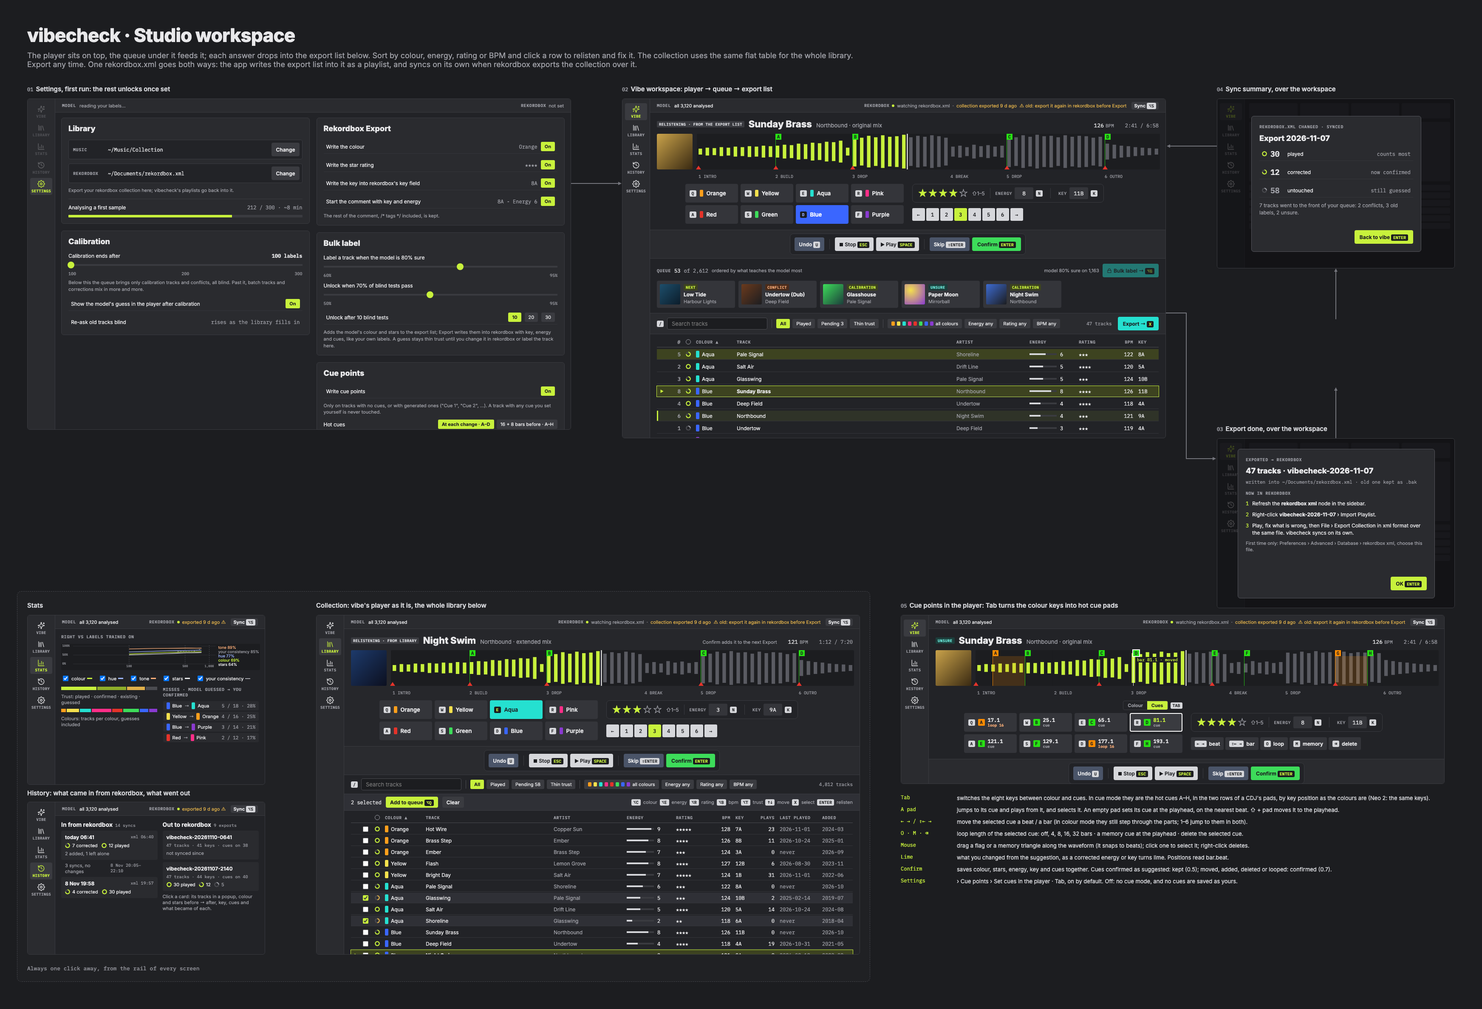
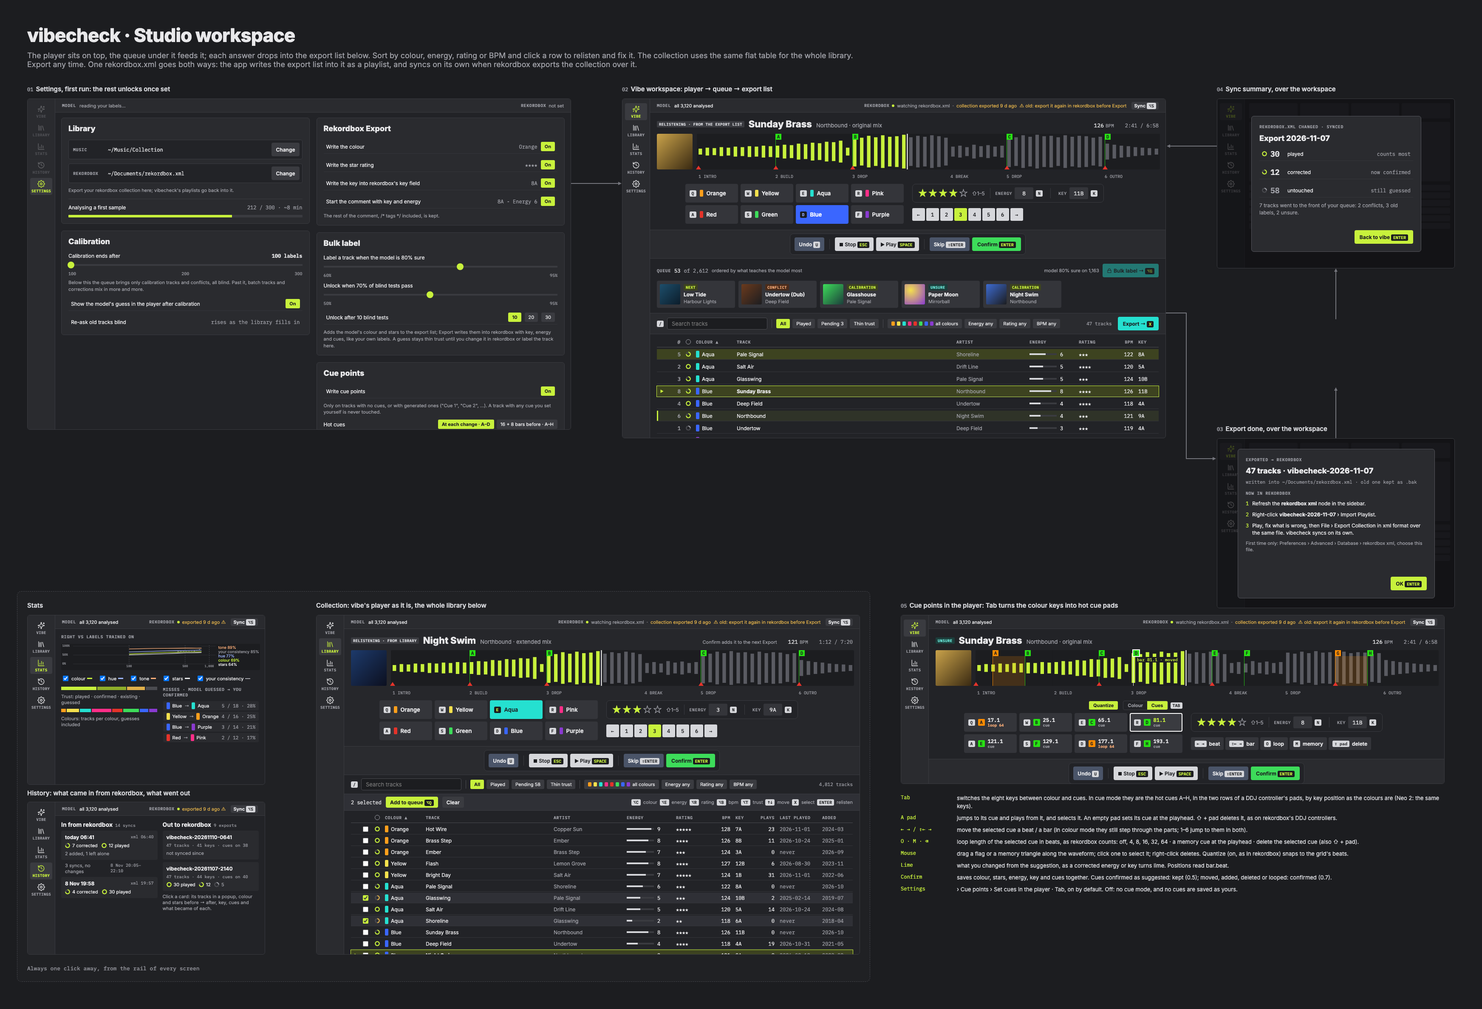
cues: align with rekordbox (shift+pad deletes, loops in beats, Quantize switch, DDJ pads in docs)

Changed region(s): [[0.5938, 0.7786, 0.9062, 0.9032], [0.7188, 0.6852, 0.75, 0.7163]]

diff --git a/docs/ui/workspace.html b/docs/ui/workspace.html
@@ -118,15 +118,15 @@ a{color:#c8f13c}a:hover{color:#e0ff7a}
 <div class="mono" style="position: relative; height: 14px; font-size: 10px; color: #a0a1a8"><span style="position: absolute; left: 4px">1 INTRO</span><span style="position: absolute; left: 185px">2 BUILD</span><span style="position: absolute; left: 366px">3 DROP</span><span style="position: absolute; left: 597px">4 BREAK</span><span style="position: absolute; left: 729px">5 DROP</span><span style="position: absolute; left: 960px">6 OUTRO</span></div>
 </div></div>
 <div style="display: grid; grid-template-columns: 1fr 1fr; gap: 20px; align-items: start">
-<div style="display: flex; flex-direction: column; gap: 6px; justify-self: end"><div style="display: flex; align-items: center; gap: 6px; justify-content: flex-end; height: 24px"><span style="display: inline-flex; border-radius: 4px; overflow: hidden; border: 1px solid #3a3b40"><span style="padding: 3px 10px; font-size: 11px; font-weight: 600; color: #a0a1a8">Colour</span><span style="padding: 3px 10px; font-size: 11px; font-weight: 700; color: #1c1d20; background: #c8f13c">Cues</span></span><span class="kbd">TAB</span></div><div style="display: grid; grid-template-columns: repeat(4, 124px); gap: 6px"><div class="key" style="gap: 7px; "><span class="kbd">Q</span><span style="width: 16px; height: 16px; background: #ff8c00; color: #1c1d20; font: 700 11px 'IBM Plex Mono', monospace; line-height: 16px; text-align: center; border-radius: 2px">A</span><span style="display: flex; flex-direction: column; line-height: 1.15"><span class="mono" style="font-size: 12px; color: #e8e8ea">17.1</span><span class="mono" style="font-size: 9px; color: #ffb07a">loop 16</span></span></div><div class="key" style="gap: 7px; "><span class="kbd">W</span><span style="width: 16px; height: 16px; background: #28e214; color: #1c1d20; font: 700 11px 'IBM Plex Mono', monospace; line-height: 16px; text-align: center; border-radius: 2px">B</span><span style="display: flex; flex-direction: column; line-height: 1.15"><span class="mono" style="font-size: 12px; color: #e8e8ea">25.1</span><span class="mono" style="font-size: 9px; color: #a0a1a8">cue</span></span></div><div class="key" style="gap: 7px; "><span class="kbd">E</span><span style="width: 16px; height: 16px; background: #28e214; color: #1c1d20; font: 700 11px 'IBM Plex Mono', monospace; line-height: 16px; text-align: center; border-radius: 2px">C</span><span style="display: flex; flex-direction: column; line-height: 1.15"><span class="mono" style="font-size: 12px; color: #e8e8ea">65.1</span><span class="mono" style="font-size: 9px; color: #a0a1a8">cue</span></span></div><div class="key" style="gap: 7px; background: #3a3b40; box-shadow: inset 0 0 0 2px #ffffff;"><span class="kbd">R</span><span style="width: 16px; height: 16px; background: #28e214; color: #1c1d20; font: 700 11px 'IBM Plex Mono', monospace; line-height: 16px; text-align: center; border-radius: 2px">D</span><span style="display: flex; flex-direction: column; line-height: 1.15"><span class="mono" style="font-size: 12px; color: #c8f13c">81.1</span><span class="mono" style="font-size: 9px; color: #a0a1a8">cue</span></span></div><div class="key" style="gap: 7px; "><span class="kbd">A</span><span style="width: 16px; height: 16px; background: #28e214; color: #1c1d20; font: 700 11px 'IBM Plex Mono', monospace; line-height: 16px; text-align: center; border-radius: 2px">E</span><span style="display: flex; flex-direction: column; line-height: 1.15"><span class="mono" style="font-size: 12px; color: #e8e8ea">121.1</span><span class="mono" style="font-size: 9px; color: #a0a1a8">cue</span></span></div><div class="key" style="gap: 7px; "><span class="kbd">S</span><span style="width: 16px; height: 16px; background: #28e214; color: #1c1d20; font: 700 11px 'IBM Plex Mono', monospace; line-height: 16px; text-align: center; border-radius: 2px">F</span><span style="display: flex; flex-direction: column; line-height: 1.15"><span class="mono" style="font-size: 12px; color: #e8e8ea">129.1</span><span class="mono" style="font-size: 9px; color: #a0a1a8">cue</span></span></div><div class="key" style="gap: 7px; "><span class="kbd">D</span><span style="width: 16px; height: 16px; background: #ff8c00; color: #1c1d20; font: 700 11px 'IBM Plex Mono', monospace; line-height: 16px; text-align: center; border-radius: 2px">G</span><span style="display: flex; flex-direction: column; line-height: 1.15"><span class="mono" style="font-size: 12px; color: #e8e8ea">177.1</span><span class="mono" style="font-size: 9px; color: #ffb07a">loop 16</span></span></div><div class="key" style="gap: 7px; "><span class="kbd">F</span><span style="width: 16px; height: 16px; background: #28e214; color: #1c1d20; font: 700 11px 'IBM Plex Mono', monospace; line-height: 16px; text-align: center; border-radius: 2px">H</span><span style="display: flex; flex-direction: column; line-height: 1.15"><span class="mono" style="font-size: 12px; color: #e8e8ea">193.1</span><span class="mono" style="font-size: 9px; color: #a0a1a8">cue</span></span></div></div></div>
-<div style="display: flex; flex-direction: column; gap: 6px"><div style="height: 24px"></div><div style="height: 44px; display: flex; align-items: center"><div style="display: inline-flex; align-items: center; box-sizing: border-box; height: 44px; padding: 0 14px; background: #222327; border: 1px solid #3a3b40; border-radius: 8px"><div style="display: flex; align-items: center; gap: 4px"><span style="font-size: 20px; line-height: 1; color: #c8f13c">★</span><span style="font-size: 20px; line-height: 1; color: #c8f13c">★</span><span style="font-size: 20px; line-height: 1; color: #c8f13c">★</span><span style="font-size: 20px; line-height: 1; color: #c8f13c">★</span><span style="font-size: 20px; line-height: 1; color: #a0a1a8">☆</span><span style="font-size: 12px; color: #a0a1a8; margin-left: 6px">⇧1–5</span></div><span style="width: 1px; height: 24px; background: #3a3b40; margin: 0 12px"></span><div style="display: flex; align-items: center; gap: 6px"><span style="font: 500 10px 'IBM Plex Mono', monospace; letter-spacing: .06em; color: #a0a1a8">ENERGY</span><span class="mono" style="display: inline-flex; align-items: center; justify-content: center; min-width: 44px; height: 28px; border-radius: 3px; background: #34353a; font-size: 13px">8</span><span class="kbd">N</span><span style="width: 1px; height: 24px; background: #3a3b40; margin: 0 12px"></span><span style="font: 500 10px 'IBM Plex Mono', monospace; letter-spacing: .06em; color: #a0a1a8">KEY</span><span class="mono" style="display: inline-flex; align-items: center; justify-content: center; min-width: 44px; height: 28px; border-radius: 3px; background: #34353a; font-size: 13px">11B</span><span class="kbd">K</span></div></div></div><div style="height: 44px; display: flex; align-items: center; gap: 4px"><span style="display: inline-flex; align-items: center; gap: 6px; height: 30px; padding: 0 9px; border-radius: 3px; background: #34353a; font-size: 12px; font-weight: 600"><span class="kbd">← →</span>beat</span><span style="display: inline-flex; align-items: center; gap: 6px; height: 30px; padding: 0 9px; border-radius: 3px; background: #34353a; font-size: 12px; font-weight: 600"><span class="kbd">⇧← →</span>bar</span><span style="display: inline-flex; align-items: center; gap: 6px; height: 30px; padding: 0 9px; border-radius: 3px; background: #34353a; font-size: 12px; font-weight: 600"><span class="kbd">O</span>loop</span><span style="display: inline-flex; align-items: center; gap: 6px; height: 30px; padding: 0 9px; border-radius: 3px; background: #34353a; font-size: 12px; font-weight: 600"><span class="kbd">M</span>memory</span><span style="display: inline-flex; align-items: center; gap: 6px; height: 30px; padding: 0 9px; border-radius: 3px; background: #34353a; font-size: 12px; font-weight: 600"><span class="kbd">⌫</span>delete</span></div></div>
+<div style="display: flex; flex-direction: column; gap: 6px; justify-self: end"><div style="display: flex; align-items: center; gap: 6px; justify-content: flex-end; height: 24px"><span style="padding: 3px 10px; font-size: 11px; font-weight: 700; color: #1c1d20; background: #c8f13c; border-radius: 3px; margin-right: 6px">Quantize</span><span style="display: inline-flex; border-radius: 4px; overflow: hidden; border: 1px solid #3a3b40"><span style="padding: 3px 10px; font-size: 11px; font-weight: 600; color: #a0a1a8">Colour</span><span style="padding: 3px 10px; font-size: 11px; font-weight: 700; color: #1c1d20; background: #c8f13c">Cues</span></span><span class="kbd">TAB</span></div><div style="display: grid; grid-template-columns: repeat(4, 124px); gap: 6px"><div class="key" style="gap: 7px; "><span class="kbd">Q</span><span style="width: 16px; height: 16px; background: #ff8c00; color: #1c1d20; font: 700 11px 'IBM Plex Mono', monospace; line-height: 16px; text-align: center; border-radius: 2px">A</span><span style="display: flex; flex-direction: column; line-height: 1.15"><span class="mono" style="font-size: 12px; color: #e8e8ea">17.1</span><span class="mono" style="font-size: 9px; color: #ffb07a">loop 64</span></span></div><div class="key" style="gap: 7px; "><span class="kbd">W</span><span style="width: 16px; height: 16px; background: #28e214; color: #1c1d20; font: 700 11px 'IBM Plex Mono', monospace; line-height: 16px; text-align: center; border-radius: 2px">B</span><span style="display: flex; flex-direction: column; line-height: 1.15"><span class="mono" style="font-size: 12px; color: #e8e8ea">25.1</span><span class="mono" style="font-size: 9px; color: #a0a1a8">cue</span></span></div><div class="key" style="gap: 7px; "><span class="kbd">E</span><span style="width: 16px; height: 16px; background: #28e214; color: #1c1d20; font: 700 11px 'IBM Plex Mono', monospace; line-height: 16px; text-align: center; border-radius: 2px">C</span><span style="display: flex; flex-direction: column; line-height: 1.15"><span class="mono" style="font-size: 12px; color: #e8e8ea">65.1</span><span class="mono" style="font-size: 9px; color: #a0a1a8">cue</span></span></div><div class="key" style="gap: 7px; background: #3a3b40; box-shadow: inset 0 0 0 2px #ffffff;"><span class="kbd">R</span><span style="width: 16px; height: 16px; background: #28e214; color: #1c1d20; font: 700 11px 'IBM Plex Mono', monospace; line-height: 16px; text-align: center; border-radius: 2px">D</span><span style="display: flex; flex-direction: column; line-height: 1.15"><span class="mono" style="font-size: 12px; color: #c8f13c">81.1</span><span class="mono" style="font-size: 9px; color: #a0a1a8">cue</span></span></div><div class="key" style="gap: 7px; "><span class="kbd">A</span><span style="width: 16px; height: 16px; background: #28e214; color: #1c1d20; font: 700 11px 'IBM Plex Mono', monospace; line-height: 16px; text-align: center; border-radius: 2px">E</span><span style="display: flex; flex-direction: column; line-height: 1.15"><span class="mono" style="font-size: 12px; color: #e8e8ea">121.1</span><span class="mono" style="font-size: 9px; color: #a0a1a8">cue</span></span></div><div class="key" style="gap: 7px; "><span class="kbd">S</span><span style="width: 16px; height: 16px; background: #28e214; color: #1c1d20; font: 700 11px 'IBM Plex Mono', monospace; line-height: 16px; text-align: center; border-radius: 2px">F</span><span style="display: flex; flex-direction: column; line-height: 1.15"><span class="mono" style="font-size: 12px; color: #e8e8ea">129.1</span><span class="mono" style="font-size: 9px; color: #a0a1a8">cue</span></span></div><div class="key" style="gap: 7px; "><span class="kbd">D</span><span style="width: 16px; height: 16px; background: #ff8c00; color: #1c1d20; font: 700 11px 'IBM Plex Mono', monospace; line-height: 16px; text-align: center; border-radius: 2px">G</span><span style="display: flex; flex-direction: column; line-height: 1.15"><span class="mono" style="font-size: 12px; color: #e8e8ea">177.1</span><span class="mono" style="font-size: 9px; color: #ffb07a">loop 64</span></span></div><div class="key" style="gap: 7px; "><span class="kbd">F</span><span style="width: 16px; height: 16px; background: #28e214; color: #1c1d20; font: 700 11px 'IBM Plex Mono', monospace; line-height: 16px; text-align: center; border-radius: 2px">H</span><span style="display: flex; flex-direction: column; line-height: 1.15"><span class="mono" style="font-size: 12px; color: #e8e8ea">193.1</span><span class="mono" style="font-size: 9px; color: #a0a1a8">cue</span></span></div></div></div>
+<div style="display: flex; flex-direction: column; gap: 6px"><div style="height: 24px"></div><div style="height: 44px; display: flex; align-items: center"><div style="display: inline-flex; align-items: center; box-sizing: border-box; height: 44px; padding: 0 14px; background: #222327; border: 1px solid #3a3b40; border-radius: 8px"><div style="display: flex; align-items: center; gap: 4px"><span style="font-size: 20px; line-height: 1; color: #c8f13c">★</span><span style="font-size: 20px; line-height: 1; color: #c8f13c">★</span><span style="font-size: 20px; line-height: 1; color: #c8f13c">★</span><span style="font-size: 20px; line-height: 1; color: #c8f13c">★</span><span style="font-size: 20px; line-height: 1; color: #a0a1a8">☆</span><span style="font-size: 12px; color: #a0a1a8; margin-left: 6px">⇧1–5</span></div><span style="width: 1px; height: 24px; background: #3a3b40; margin: 0 12px"></span><div style="display: flex; align-items: center; gap: 6px"><span style="font: 500 10px 'IBM Plex Mono', monospace; letter-spacing: .06em; color: #a0a1a8">ENERGY</span><span class="mono" style="display: inline-flex; align-items: center; justify-content: center; min-width: 44px; height: 28px; border-radius: 3px; background: #34353a; font-size: 13px">8</span><span class="kbd">N</span><span style="width: 1px; height: 24px; background: #3a3b40; margin: 0 12px"></span><span style="font: 500 10px 'IBM Plex Mono', monospace; letter-spacing: .06em; color: #a0a1a8">KEY</span><span class="mono" style="display: inline-flex; align-items: center; justify-content: center; min-width: 44px; height: 28px; border-radius: 3px; background: #34353a; font-size: 13px">11B</span><span class="kbd">K</span></div></div></div><div style="height: 44px; display: flex; align-items: center; gap: 4px"><span style="display: inline-flex; align-items: center; gap: 6px; height: 30px; padding: 0 9px; border-radius: 3px; background: #34353a; font-size: 12px; font-weight: 600"><span class="kbd">← →</span>beat</span><span style="display: inline-flex; align-items: center; gap: 6px; height: 30px; padding: 0 9px; border-radius: 3px; background: #34353a; font-size: 12px; font-weight: 600"><span class="kbd">⇧← →</span>bar</span><span style="display: inline-flex; align-items: center; gap: 6px; height: 30px; padding: 0 9px; border-radius: 3px; background: #34353a; font-size: 12px; font-weight: 600"><span class="kbd">O</span>loop</span><span style="display: inline-flex; align-items: center; gap: 6px; height: 30px; padding: 0 9px; border-radius: 3px; background: #34353a; font-size: 12px; font-weight: 600"><span class="kbd">M</span>memory</span><span style="display: inline-flex; align-items: center; gap: 6px; height: 30px; padding: 0 9px; border-radius: 3px; background: #34353a; font-size: 12px; font-weight: 600"><span class="kbd">⇧ pad</span>delete</span></div></div>
 </div>
 </div>
 <div style="display: flex; justify-content: center; padding: 8px 16px; border-bottom: 1px solid #3a3b40; background: #2a2b2f"><div style="display: inline-flex; align-items: center; gap: 6px; padding: 8px 10px; background: #222327; border: 1px solid #3a3b40; border-radius: 8px"><button class="btn" style="background: #4a5468">Undo <span class="kbd">U</span></button><span style="width: 1px; height: 24px; background: #3a3b40; margin: 0 6px"></span><button class="btn" style="background: #d6d7db; color: #1c1d20"><svg width="10" height="10" viewBox="0 0 10 10" style="vertical-align: -1px"><rect x="1" y="1" width="8" height="8" fill="#1c1d20"/></svg> Stop <span class="kbdd">ESC</span></button><button class="btn" style="background: #d6d7db; color: #1c1d20"><svg width="10" height="10" viewBox="0 0 10 10" style="vertical-align: -1px"><path d="M1 0 10 5 1 10z" fill="#1c1d20"/></svg> Play <span class="kbdd">SPACE</span></button><span style="width: 1px; height: 24px; background: #3a3b40; margin: 0 6px"></span><button class="btn" style="background: #4a5468" title="from the queue this slot reads: Requeue">Skip <span class="kbd">⇧ENTER</span></button><button class="btnp" style="background: #3ddc5a">Confirm <span class="kbdd">ENTER</span></button></div></div>
 </div>
 </div>
 <div style="position: absolute; left: 2120px; top: 1870px; width: 1280px; display: flex; flex-direction: column; gap: 9px">
-<div style="display: flex; gap: 12px"><span class="mono" style="flex: none; width: 120px; font-size: 12px; color: #c8f13c">Tab</span><span style="font-size: 13px; line-height: 19px; color: #d6d7db">switches the eight keys between colour and cues. In cue mode they are the hot cues A–H, in the two rows of a CDJ's pads, by key position as the colours are (Neo 2: the same keys).</span></div><div style="display: flex; gap: 12px"><span class="mono" style="flex: none; width: 120px; font-size: 12px; color: #c8f13c">A pad</span><span style="font-size: 13px; line-height: 19px; color: #d6d7db">jumps to its cue and plays from it, and selects it. An empty pad sets its cue at the playhead, on the nearest beat. ⇧ + pad moves it to the playhead.</span></div><div style="display: flex; gap: 12px"><span class="mono" style="flex: none; width: 120px; font-size: 12px; color: #c8f13c">← → / ⇧← →</span><span style="font-size: 13px; line-height: 19px; color: #d6d7db">move the selected cue a beat / a bar (in colour mode they still step through the parts; 1–6 jump to them in both).</span></div><div style="display: flex; gap: 12px"><span class="mono" style="flex: none; width: 120px; font-size: 12px; color: #c8f13c">O · M · ⌫</span><span style="font-size: 13px; line-height: 19px; color: #d6d7db">loop length of the selected cue: off, 4, 8, 16, 32 bars · a memory cue at the playhead · delete the selected cue.</span></div><div style="display: flex; gap: 12px"><span class="mono" style="flex: none; width: 120px; font-size: 12px; color: #c8f13c">Mouse</span><span style="font-size: 13px; line-height: 19px; color: #d6d7db">drag a flag or a memory triangle along the waveform (it snaps to beats); click one to select it; right-click deletes.</span></div><div style="display: flex; gap: 12px"><span class="mono" style="flex: none; width: 120px; font-size: 12px; color: #c8f13c">Lime</span><span style="font-size: 13px; line-height: 19px; color: #d6d7db">what you changed from the suggestion, as a corrected energy or key turns lime. Positions read bar.beat.</span></div><div style="display: flex; gap: 12px"><span class="mono" style="flex: none; width: 120px; font-size: 12px; color: #c8f13c">Confirm</span><span style="font-size: 13px; line-height: 19px; color: #d6d7db">saves colour, stars, energy, key and cues together. Cues confirmed as suggested: kept (0.5); moved, added, deleted or looped: confirmed (0.7).</span></div><div style="display: flex; gap: 12px"><span class="mono" style="flex: none; width: 120px; font-size: 12px; color: #c8f13c">Settings</span><span style="font-size: 13px; line-height: 19px; color: #d6d7db">› Cue points › Set cues in the player · Tab, on by default. Off: no cue mode, and no cues are saved as yours.</span></div>
+<div style="display: flex; gap: 12px"><span class="mono" style="flex: none; width: 120px; font-size: 12px; color: #c8f13c">Tab</span><span style="font-size: 13px; line-height: 19px; color: #d6d7db">switches the eight keys between colour and cues. In cue mode they are the hot cues A–H, in the two rows of a DDJ controller's pads, by key position as the colours are (Neo 2: the same keys).</span></div><div style="display: flex; gap: 12px"><span class="mono" style="flex: none; width: 120px; font-size: 12px; color: #c8f13c">A pad</span><span style="font-size: 13px; line-height: 19px; color: #d6d7db">jumps to its cue and plays from it, and selects it. An empty pad sets its cue at the playhead. ⇧ + pad deletes it, as on rekordbox's DDJ controllers.</span></div><div style="display: flex; gap: 12px"><span class="mono" style="flex: none; width: 120px; font-size: 12px; color: #c8f13c">← → / ⇧← →</span><span style="font-size: 13px; line-height: 19px; color: #d6d7db">move the selected cue a beat / a bar (in colour mode they still step through the parts; 1–6 jump to them in both).</span></div><div style="display: flex; gap: 12px"><span class="mono" style="flex: none; width: 120px; font-size: 12px; color: #c8f13c">O · M · ⌫</span><span style="font-size: 13px; line-height: 19px; color: #d6d7db">loop length of the selected cue in beats, as rekordbox counts: off, 4, 8, 16, 32, 64 · a memory cue at the playhead · delete the selected cue (also ⇧ + pad).</span></div><div style="display: flex; gap: 12px"><span class="mono" style="flex: none; width: 120px; font-size: 12px; color: #c8f13c">Mouse</span><span style="font-size: 13px; line-height: 19px; color: #d6d7db">drag a flag or a memory triangle along the waveform; click one to select it; right-click deletes. Quantize (on, as in rekordbox) snaps to the grid's beats.</span></div><div style="display: flex; gap: 12px"><span class="mono" style="flex: none; width: 120px; font-size: 12px; color: #c8f13c">Lime</span><span style="font-size: 13px; line-height: 19px; color: #d6d7db">what you changed from the suggestion, as a corrected energy or key turns lime. Positions read bar.beat.</span></div><div style="display: flex; gap: 12px"><span class="mono" style="flex: none; width: 120px; font-size: 12px; color: #c8f13c">Confirm</span><span style="font-size: 13px; line-height: 19px; color: #d6d7db">saves colour, stars, energy, key and cues together. Cues confirmed as suggested: kept (0.5); moved, added, deleted or looped: confirmed (0.7).</span></div><div style="display: flex; gap: 12px"><span class="mono" style="flex: none; width: 120px; font-size: 12px; color: #c8f13c">Settings</span><span style="font-size: 13px; line-height: 19px; color: #d6d7db">› Cue points › Set cues in the player · Tab, on by default. Off: no cue mode, and no cues are saved as yours.</span></div>
 </div>
 
 <div class="lab" style="left: 644px; top: 404px; width: 80px">calibrate</div>

diff --git a/docs/ui/decisions.md b/docs/ui/decisions.md
@@ -378,19 +378,26 @@ you think is best and we can iterate from there".
 
 - **Tab** switches the eight colour keys between **Colour** and **Cues**
   (a two-way switch above them, lime on the one in use). In cue mode the
-  keys are the hot cues A–H, in two rows of four as a CDJ's pads, and by key
+  keys are the hot cues A–H, in two rows of four as a DDJ controller's
+  performance pads (what most rekordbox users play on), and by key
   position as the colours are, so on Neo 2 the same physical keys.
 - Each pad shows its slot (green cue, orange loop, as rekordbox draws them),
   where it sits as bar.beat, and "cue" or "loop 16"; an empty slot shows
   "—". What you changed from the suggestion turns lime, as a corrected energy
   or key does; the selected cue has a white outline on its pad and flag.
 - **A pad** jumps to its cue, plays from it and selects it; **an empty pad**
-  sets its cue at the playhead on the nearest beat; **⇧ + pad** moves it to
-  the playhead.
+  sets its cue at the playhead; **⇧ + pad** deletes it, as Shift + pad does
+  on rekordbox's DDJ controllers (it first moved the cue to the playhead:
+  the opposite of what a rekordbox user's hands expect). To move a cue,
+  delete and set it again, ← →, or drag it.
+- **Quantize** (a switch beside Colour | Cues in cue mode, on, as rekordbox's):
+  cues land on the grid's beats; off, where the playhead or the mouse is,
+  and the pad reads "~33.1" (the beat nearest). ← → still step by beats.
 - **← → / ⇧← →** move the selected cue a beat / a bar. In colour mode they
   step through the parts as now; 1–6 jump to parts in both modes.
-- **O** cycles the selected cue's loop: off, 4, 8, 16, 32 bars. **M** sets a
-  memory cue at the playhead. **⌫** deletes the selected cue. Letters
+- **O** cycles the selected cue's loop: off, 4, 8, 16, 32, 64 beats; pads
+  read "loop 64". In beats, as rekordbox counts loops (bars at first). **M** sets a
+  memory cue at the playhead. **⌫** also deletes the selected cue. Letters
   chosen outside the colour keys' positions on Neo 2 (x v l c / u i a e), so
   no shortcut lands on a pad.
 - **Mouse**: drag a flag (top) or a memory triangle (bottom) along the
